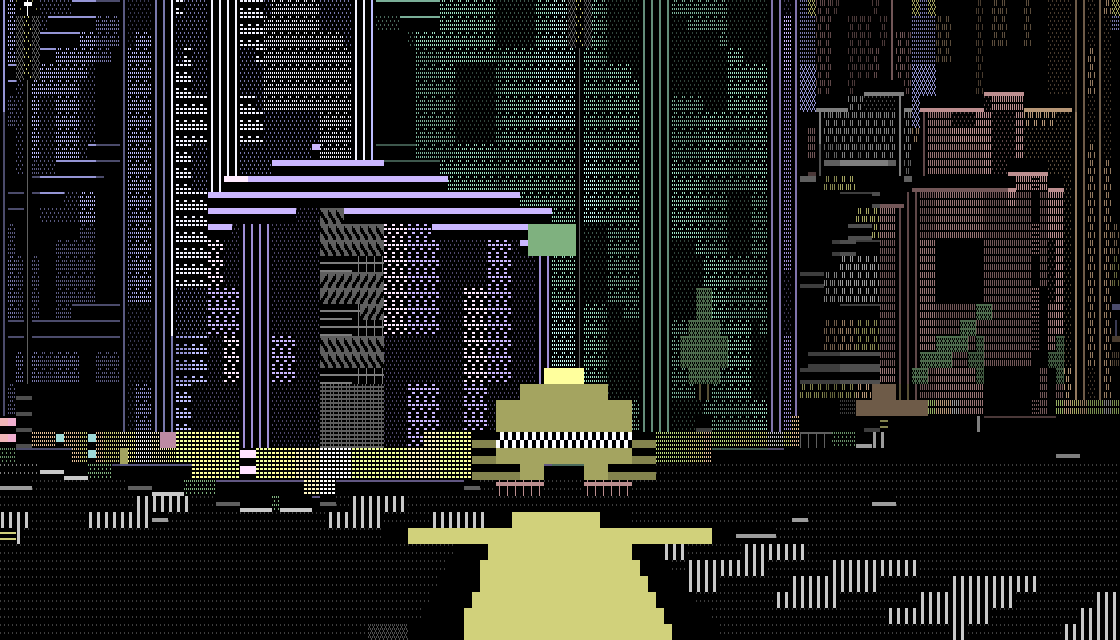
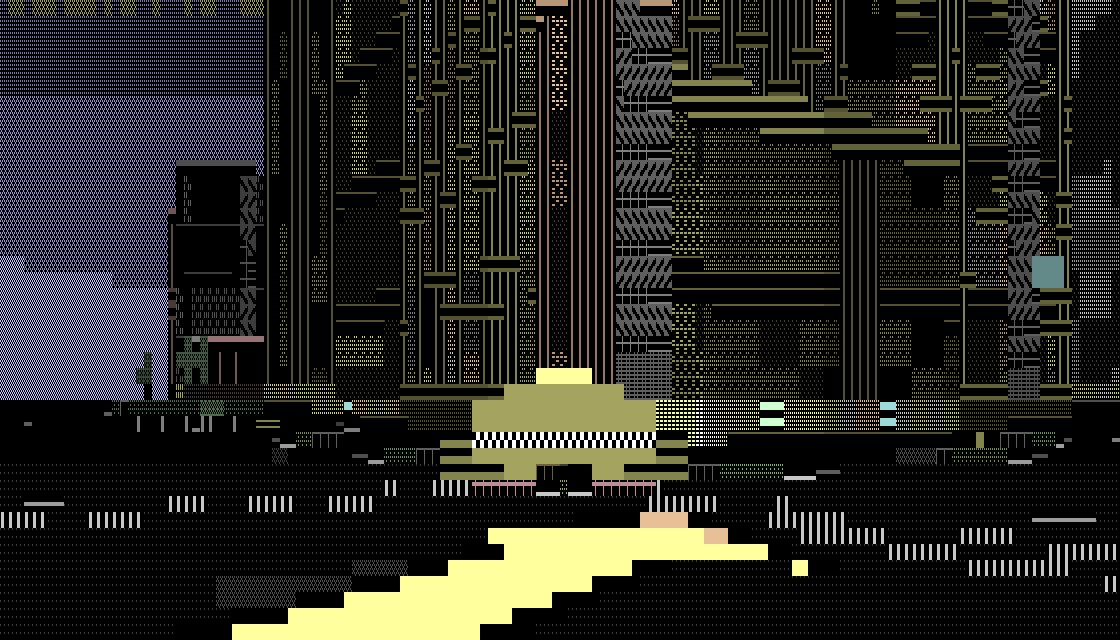
An orange point, so the arrow cannot be read backwards
An arrow is symmetrical enough at a glance that the head and the tail can be
read the wrong way round in the corner of your eye, and being read in the
corner of your eye is the whole job of this one.  The last half-cell of the
point is orange now and the rest of it stays yellow.

A step *down* the ramp rather than up it, which is the part worth writing
down: this palette scales chroma with luminance, so at the top of it every
hue is nearly white and an orange tip on a yellow arrow came out as a cream
tip on a cream arrow - measured, (255,245,193) against (255,255,157).  One
step down is (232,192,151), which is orange.

290 tests.

diff --git a/crates/ascitty-tty/src/hud.rs b/crates/ascitty-tty/src/hud.rs
@@ -60,6 +60,15 @@ const ARROW_BARB: Fx = fixed::ratio(11, 10);
 const ARROW_NECK: Fx = fixed::ratio(2, 5);
 /// How thick the black outline is, in cells of road.
 const ARROW_EDGE: Fx = fixed::ratio(1, 6);
+/// How far back from the point the tip is a different colour, in cells of
+/// road.
+///
+/// Half a cell.  An arrow is symmetrical enough at a glance that the head
+/// and the tail can be read the wrong way round in the corner of your eye,
+/// and the whole job of this thing is to be read in the corner of your eye.
+/// One end being a different colour settles it without needing a second
+/// look.
+const ARROW_TIP: Fx = fixed::ratio(3, 5);
 
 /// Whether a point in the arrow's own coordinates is inside it.
 ///
@@ -119,6 +128,12 @@ pub fn arrow_on_the_road(f: &mut Frame, p: &Proj, fov: Fx, bearing: i32, tick: u
     // A slow pulse, so it reads as an instrument rather than as scenery.
     let luma = if (tick >> 4) & 3 == 0 { 6 } else { 7 };
     let body = Cel { glyph: catalog::G_SOLID, color: palette::rgb_index(palette::H_YELLOW, luma) };
+    // A step down the ramp from the body rather than up it.  This palette
+    // scales chroma with luminance, so at the top of it every hue is nearly
+    // white and an orange tip on a yellow arrow is a cream tip on a cream
+    // arrow - measured, (255,245,193) against (255,255,157).  One step down
+    // is (232,192,151), which is orange.
+    let tip = Cel { glyph: catalog::G_SOLID, color: palette::rgb_index(palette::H_ORANGE, 6) };
     let outline = Cel { glyph: catalog::G_SOLID, color: palette::rgb_index(palette::H_BLACK, 0) };
 
     let half = fixed::from_int(p.w / 2);
@@ -141,7 +156,9 @@ pub fn arrow_on_the_road(f: &mut Frame, p: &Proj, fov: Fx, bearing: i32, tick: u
             let u = fixed::mul(ahead, cos) + fixed::mul(across, sin);
             let v = fixed::mul(across, cos) - fixed::mul(ahead, sin);
             if in_arrow(u, v, 0) {
-                f.put(x, y, body);
+                // The point itself, and only the point.
+                let end = u > ARROW_LONG - ARROW_TIP;
+                f.put(x, y, if end { tip } else { body });
             } else if in_arrow(u, v, ARROW_EDGE) {
                 f.put(x, y, outline);
             }

diff --git a/crates/ascitty-core/src/palette.rs b/crates/ascitty-core/src/palette.rs
@@ -261,3 +261,4 @@ mod tests {
         }
     }
 }
+

diff --git a/README.md b/README.md
@@ -1,6 +1,6 @@
 # ASCITTY — a raytraced ASCII city
 
-**v0.4.2 · 19 August 2026**
+**v0.4.3 · 19 August 2026**
 
 A city built entirely out of typeable characters, rendered in real time, on a
 colour terminal and on a **Commodore Plus/4** — and a taxi game inside it.
@@ -17,13 +17,13 @@ the same string.
 
 *Street level in block elements and colour, which is what you actually get.
 `ascitty --shot 520 --size 140x40 --seed 99 --tour --walk --sky 0 --day 0` —
-**v0.4.2**, 19 Aug 2026.*
+**v0.4.3**, 19 Aug 2026.*
 
 ## Watch it drive itself
 
 ![The cab driving itself down a street, traffic ahead of it, the fare marker glowing on the pavement](docs/media/demo.gif)
 
-*Eight seconds of `make demo`, recorded by `make gif` — **v0.4.2**, 19 Aug
+*Eight seconds of `make demo`, recorded by `make gif` — **v0.4.3**, 19 Aug
 2026. Small and short because a GIF is a whole frame every frame; `make
 cast` records the same run as an asciinema file, which stays sharp at any
 size and is a tenth of the bytes.*
@@ -45,7 +45,7 @@ make gif       # ...or to docs/media/demo.gif
 
 ![The taxi from behind, chequer band along its flank, a saloon alongside on the avenue](docs/media/drive.png)
 
-*The chase camera, from `make demo` at `--sky 3` — **v0.4.2**, 19 Aug 2026.
+*The chase camera, from `make demo` at `--sky 3` — **v0.4.3**, 19 Aug 2026.
 The cab's
 heading and the camera's are not the same thing: the boom lags a turn by a
 few frames, so a slide is watched from outside the spin.*
@@ -79,7 +79,7 @@ It starts in the first one.
 
 ![The city from above the tallest roof: towers seen down their faces, rooftops and fire escapes below](docs/media/copter.png)
 
-*The copter, from `--copter --haze 1 --sky 5` — **v0.4.2**, 19 Aug 2026. How
+*The copter, from `--copter --haze 1 --sky 5` — **v0.4.3**, 19 Aug 2026. How
 far
 down it looks is worked out from how high it is, how far the haze lets it
 see and how many rows the frame has, rather than being a fixed tilt — see
@@ -220,7 +220,7 @@ prints them.
 
 ![The cab at a green sunset, the sky pale at the horizon and darkening above it](docs/media/sunset.png)
 
-*`--sky 8 --day 0` — **v0.4.2**, 19 Aug 2026. The green sunset, held still
+*`--sky 8 --day 0` — **v0.4.3**, 19 Aug 2026. The green sunset, held still
 for the picture.*
 
 A phase change does not cross-fade. Two hues cannot be mixed in a palette
@@ -318,7 +318,7 @@ all:
 ```
 
 *`ascitty --shot 520 --size 92x20 --seed 99 --tour --walk --mode ascii` —
-**v0.4.2**, 19 Aug 2026. The mode the name is about, and the one that runs
+**v0.4.3**, 19 Aug 2026. The mode the name is about, and the one that runs
 anywhere a terminal runs.*
 
 ## Downloads
@@ -428,7 +428,9 @@ A yellow arrow **lies on the road** in front of the cab, pointing at the
 fare — projected through the same arithmetic the ground is drawn with, so it
 converges with the street it is lying on and swings across the road the way a
 compass needle laid flat would. It runs from the bottom of the frame to about
-the middle of the taxi. "Which way now" is a question you ask at ninety miles
+the middle of the taxi, and its point is orange, because an arrow is
+symmetrical enough at a glance to be read the wrong way round in the corner
+of your eye. "Which way now" is a question you ask at ninety miles
 an hour, and reading a word is not an answer you have time for.
 
 Driving:
@@ -525,10 +527,10 @@ place to start.
 
 ```sh
 $ ascitty --version
-ascitty 0.4.2 (seed 0xa5c1771e)
+ascitty 0.4.3 (seed 0xa5c1771e)
 ```
 
-Releases are tagged `v0.4.2` and so on, and every picture in this README
+Releases are tagged `v0.4.3` and so on, and every picture in this README
 says which build drew it. Regenerating them is `make shot` and `make gif`;
 the seed is fixed, so the same tag renders the same frames.
 
@@ -537,7 +539,7 @@ the seed is fixed, so the same tag renders the same frames.
 ![The Plus/4 build running in VICE](docs/media/plus4.png)
 
 *The `.prg` booted in VICE and photographed by `tools/viceshot.sh` — a
-40×25 city on a 1.76 MHz 7501. **v0.4.2**, 19 Aug 2026.*
+40×25 city on a 1.76 MHz 7501. **v0.4.3**, 19 Aug 2026.*
 
 `build/ascitty.prg` and `build/ascitty.d64` are the real thing: a 40×25
 city, in colour, on a 1.76 MHz 7501, with a character set generated on a
